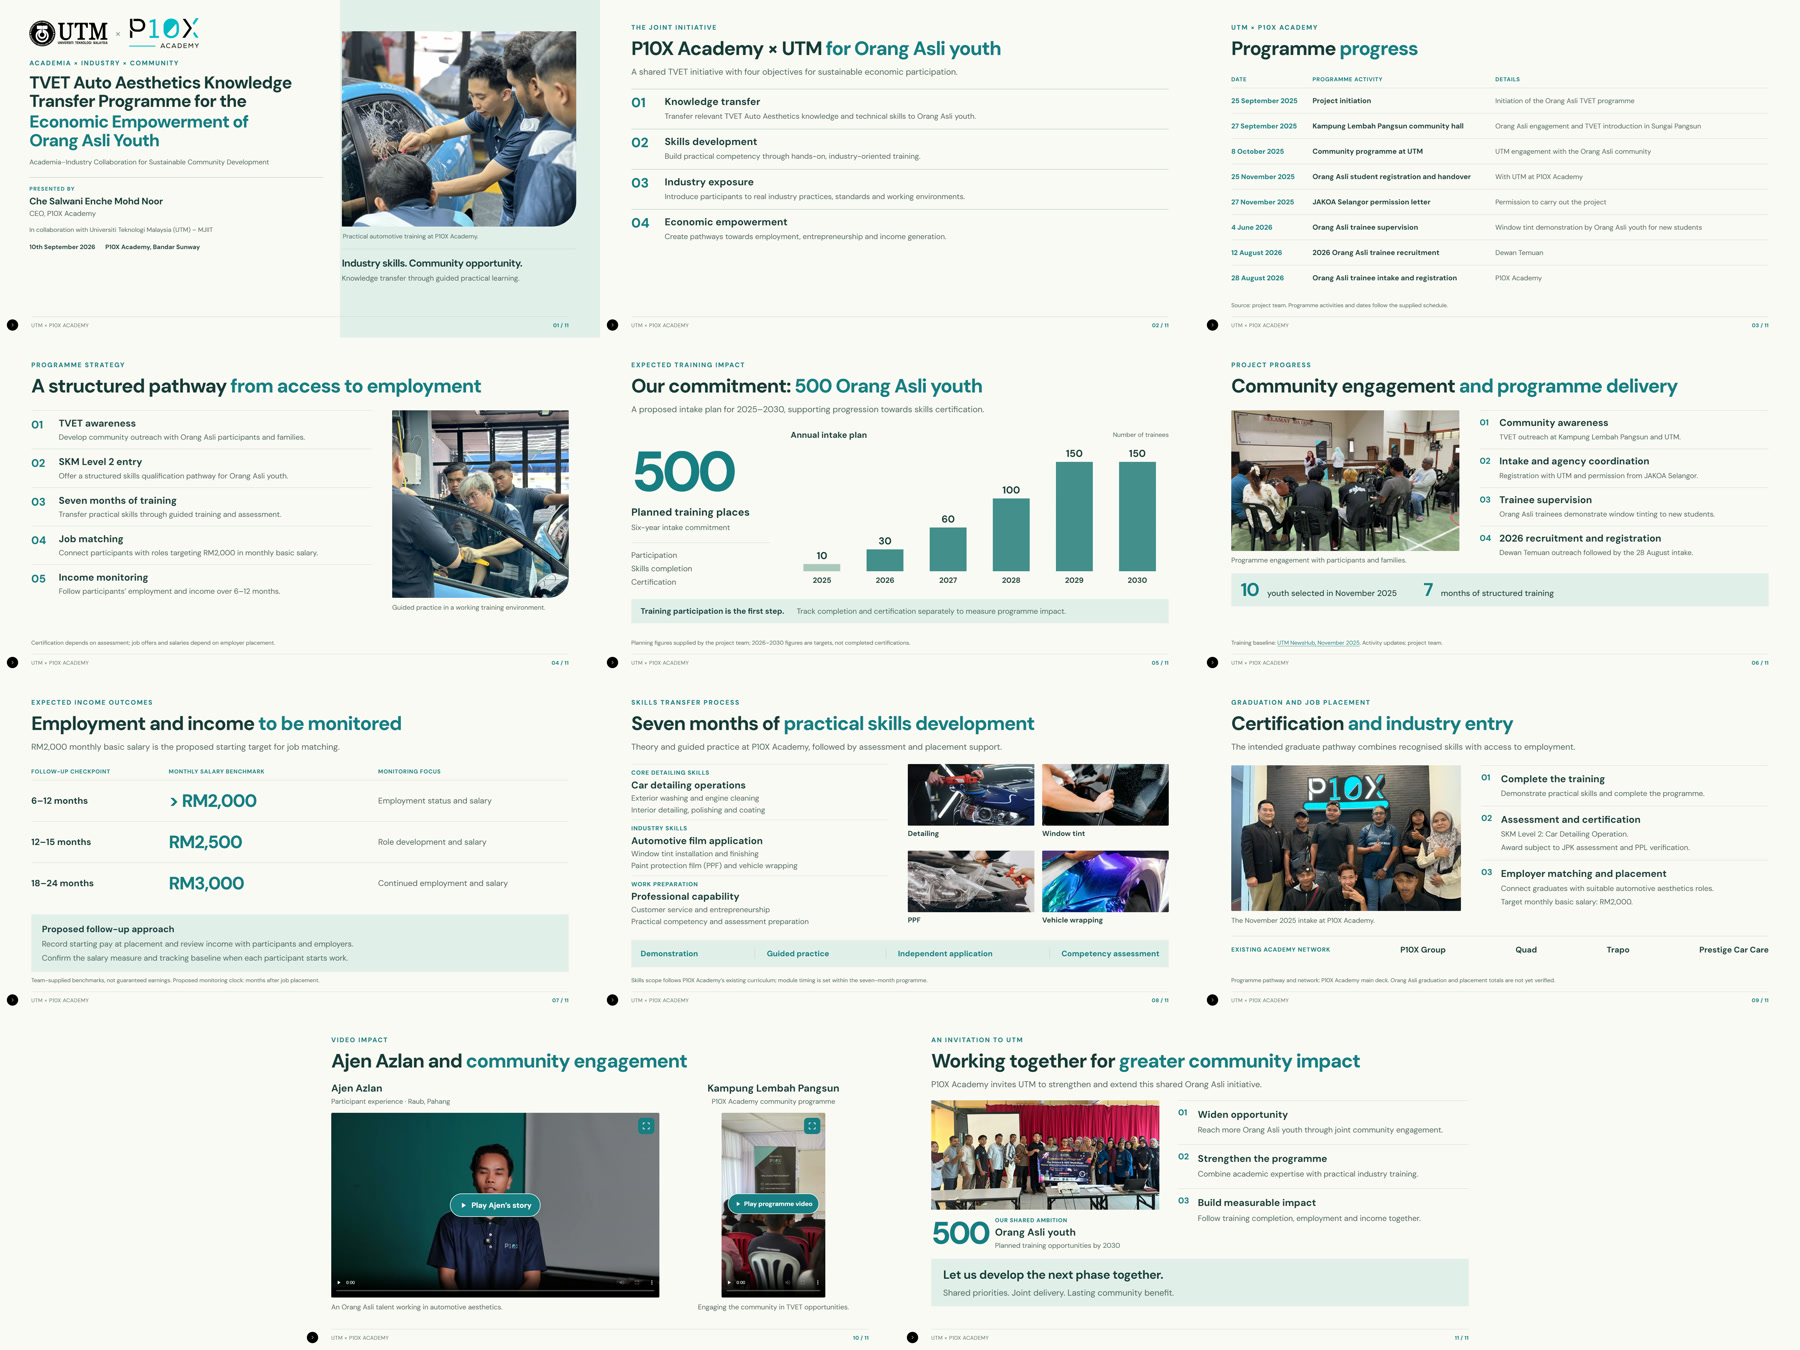
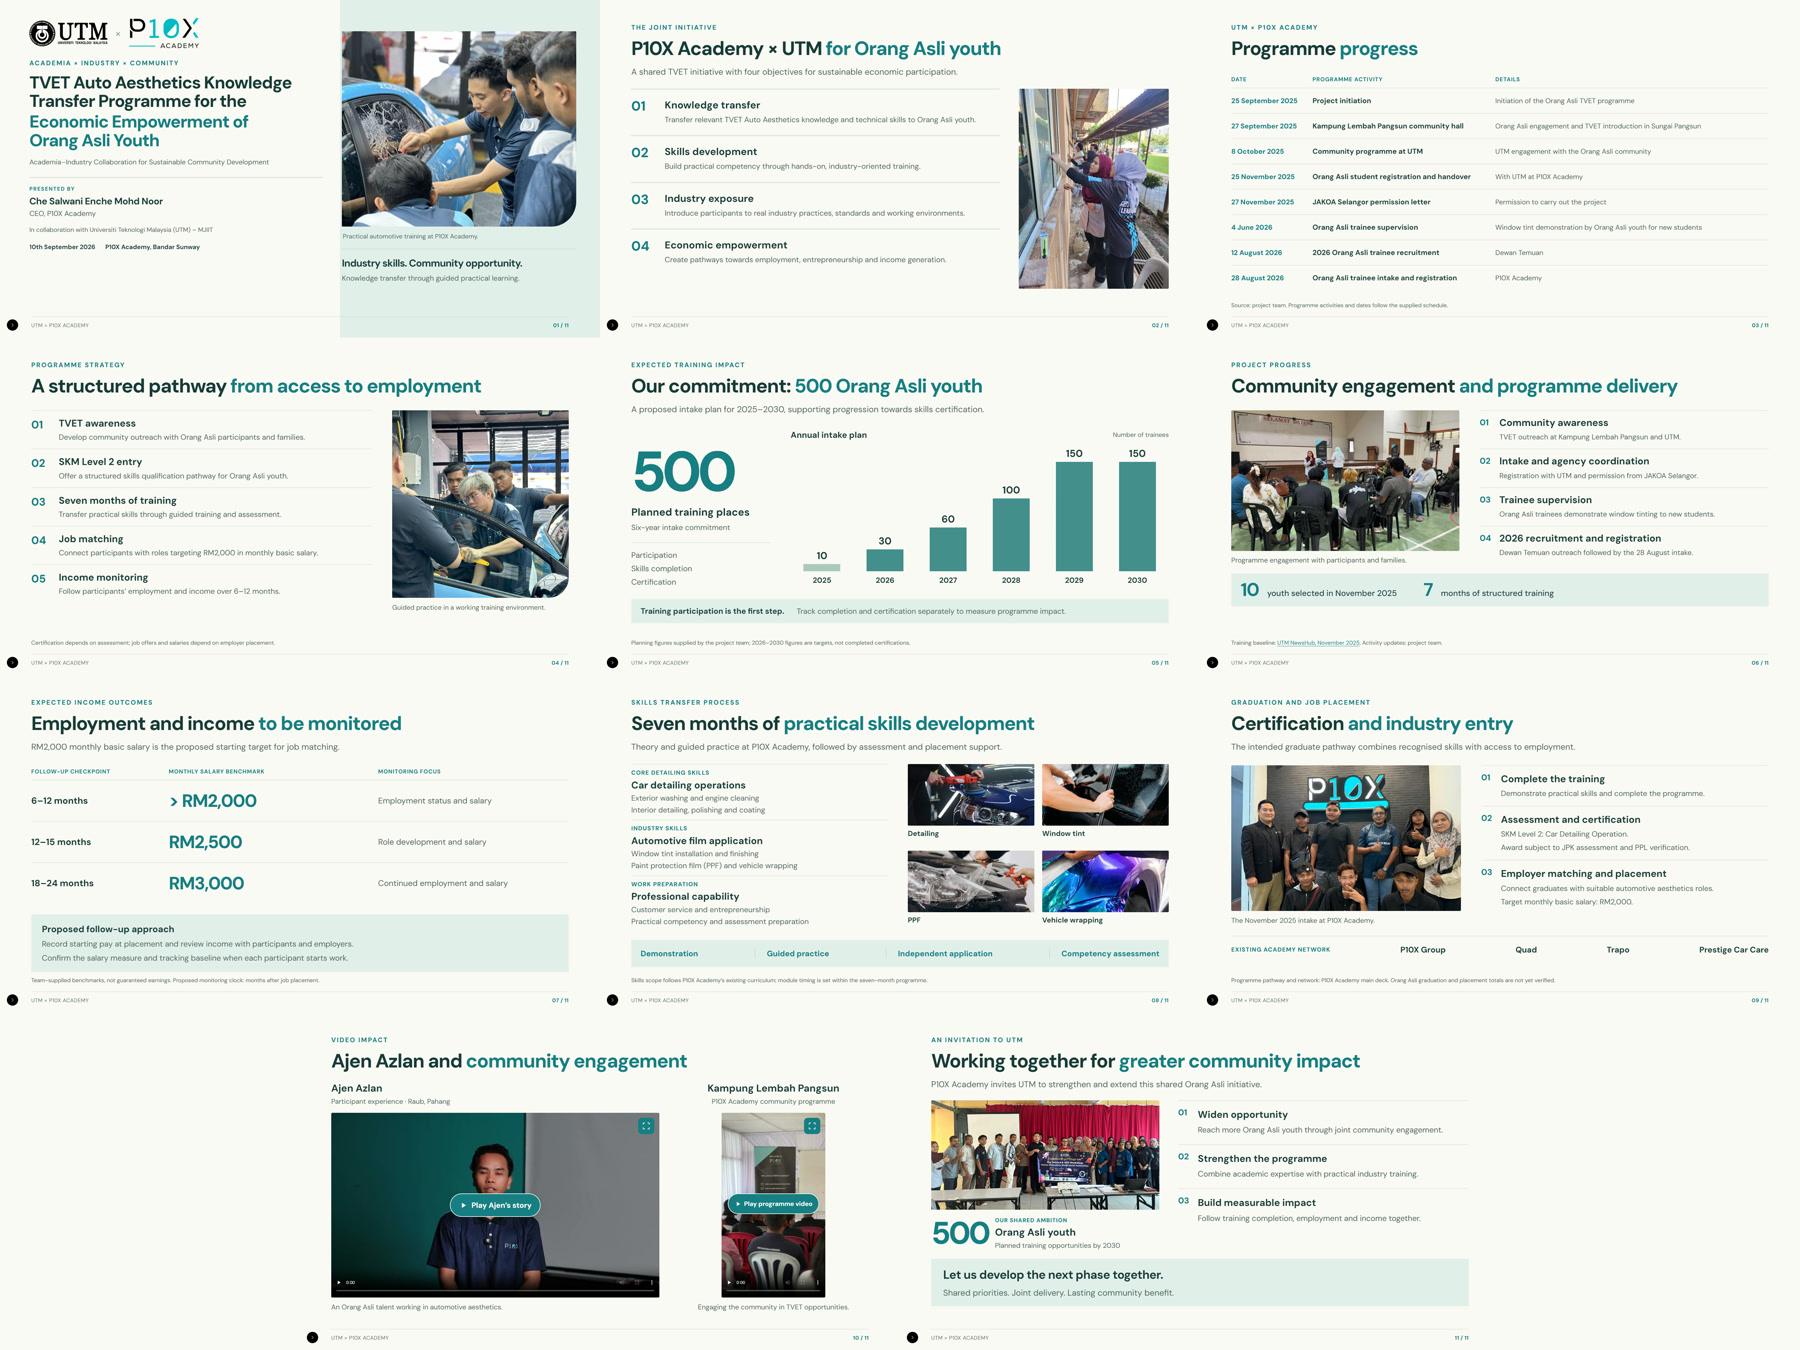
Add guided practice photo beside Slide 2 objectives

Changed region(s): [[0.3422, 0.0622, 0.5289, 0.1867], [0.56, 0.0622, 0.6533, 0.2178]]

diff --git a/deck/index.html b/deck/index.html
@@ -1048,12 +1048,15 @@ deck-stage[data-motion="calm"] .road { --T: 1.2s; }
     <p class="eyebrow">The joint initiative</p>
     <h2 class="headline up">P10X Academy × UTM <span class="accent">for Orang Asli youth</span></h2>
     <p class="intro">A shared TVET initiative with four objectives for sustainable economic participation.</p>
+    <div class="initiative-photo-layout">
     <ol class="programme-objectives initiative-objectives">
       <li class="up" style="--d:0.08s"><span class="objective-n">01</span><div><h3>Knowledge transfer</h3><p>Transfer relevant TVET Auto Aesthetics knowledge and technical skills to Orang Asli youth.</p></div></li>
       <li class="up" style="--d:0.16s"><span class="objective-n">02</span><div><h3>Skills development</h3><p>Build practical competency through hands-on, industry-oriented training.</p></div></li>
       <li class="up" style="--d:0.24s"><span class="objective-n">03</span><div><h3>Industry exposure</h3><p>Introduce participants to real industry practices, standards and working environments.</p></div></li>
       <li class="up" style="--d:0.32s"><span class="objective-n">04</span><div><h3>Economic empowerment</h3><p>Create pathways towards employment, entrepreneurship and income generation.</p></div></li>
     </ol>
+    <figure class="initiative-practice-photo"><img src="../media/orang-asli-guided-practice.png" alt="P10X Academy guiding participants in practical window film application during the Orang Asli community programme" /></figure>
+    </div>
     <footer class="pitch-footer"><span>UTM × P10X ACADEMY</span><span class="number">02 / 11</span></footer>
   </section>
 

diff --git a/deck/programme-pitch.css b/deck/programme-pitch.css
@@ -163,6 +163,10 @@ deck-stage { background: #e9eeea; --pitch-paper: #faf9f4; --pitch-ink: #173b39; 
 .cover-training-caption span { display: block; margin-top: 12px; font-size: 23px; color: var(--pitch-muted); white-space: nowrap; }
 .initiative-objectives { margin-top: 35px; }
 .initiative-objectives li { padding: 21px 0 24px; }
+.initiative-photo-layout { display: grid; grid-template-columns: 1180px 480px; gap: 60px; margin-top: 35px; }
+.initiative-photo-layout .initiative-objectives { margin-top: 0; }
+.initiative-photo-layout .initiative-objectives li { padding: 32px 0 34px; }
+.initiative-practice-photo img { width: 480px; height: 640px; object-fit: cover; border-radius: 3px; }
 
 .milestone-table, .income-table { width: 100%; border-collapse: collapse; margin-top: 34px; }
 .milestone-table th, .income-table th { padding: 0 0 15px; text-align: left; font-size: 18px; color: var(--pitch-teal); text-transform: uppercase; letter-spacing: .07em; }

diff --git a/deck/SOURCES.md b/deck/SOURCES.md
@@ -86,6 +86,7 @@ The main branch's 100 certified trainees figure refers to the broader academy de
 ## Images, video and branding
 
 - Slide 1: media/image75.jpeg, trainer-led window tint demonstration from the existing deck.
+- Slide 2: media/orang-asli-guided-practice.png, the owner's on-site photograph of guided window film application, placed beside the four programme objectives. No event date is assigned.
 - Slide 4: media/image76.jpeg, academy training photograph from the existing deck.
 - Slide 6: .media/images/image_005.png, community photograph supplied by the owner. Its exact date is not assigned.
 - Slide 8: existing detailing, tint, PPF and wrapping photographs.
